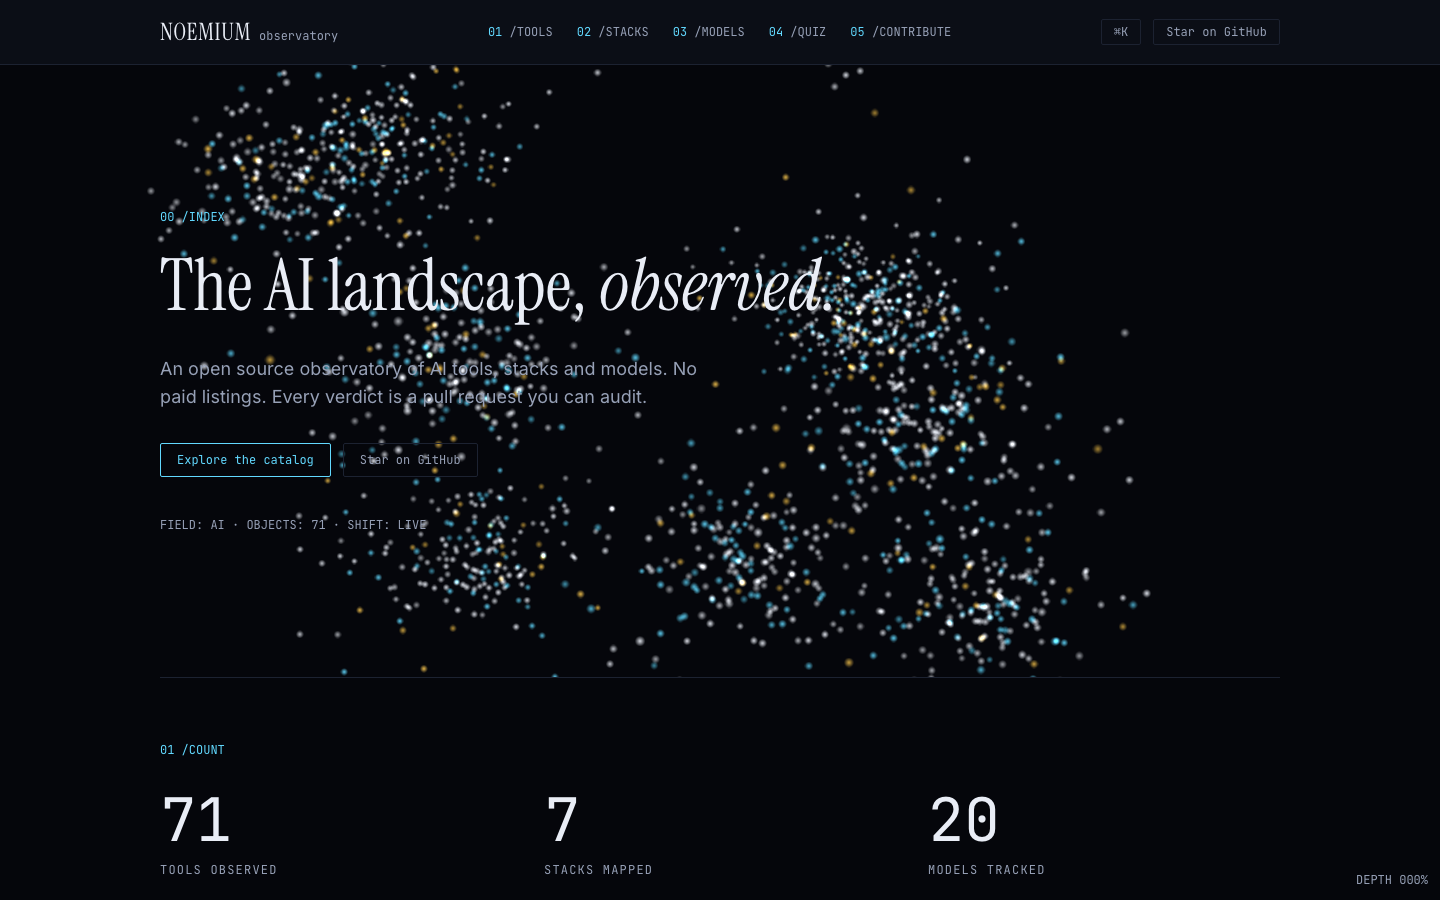
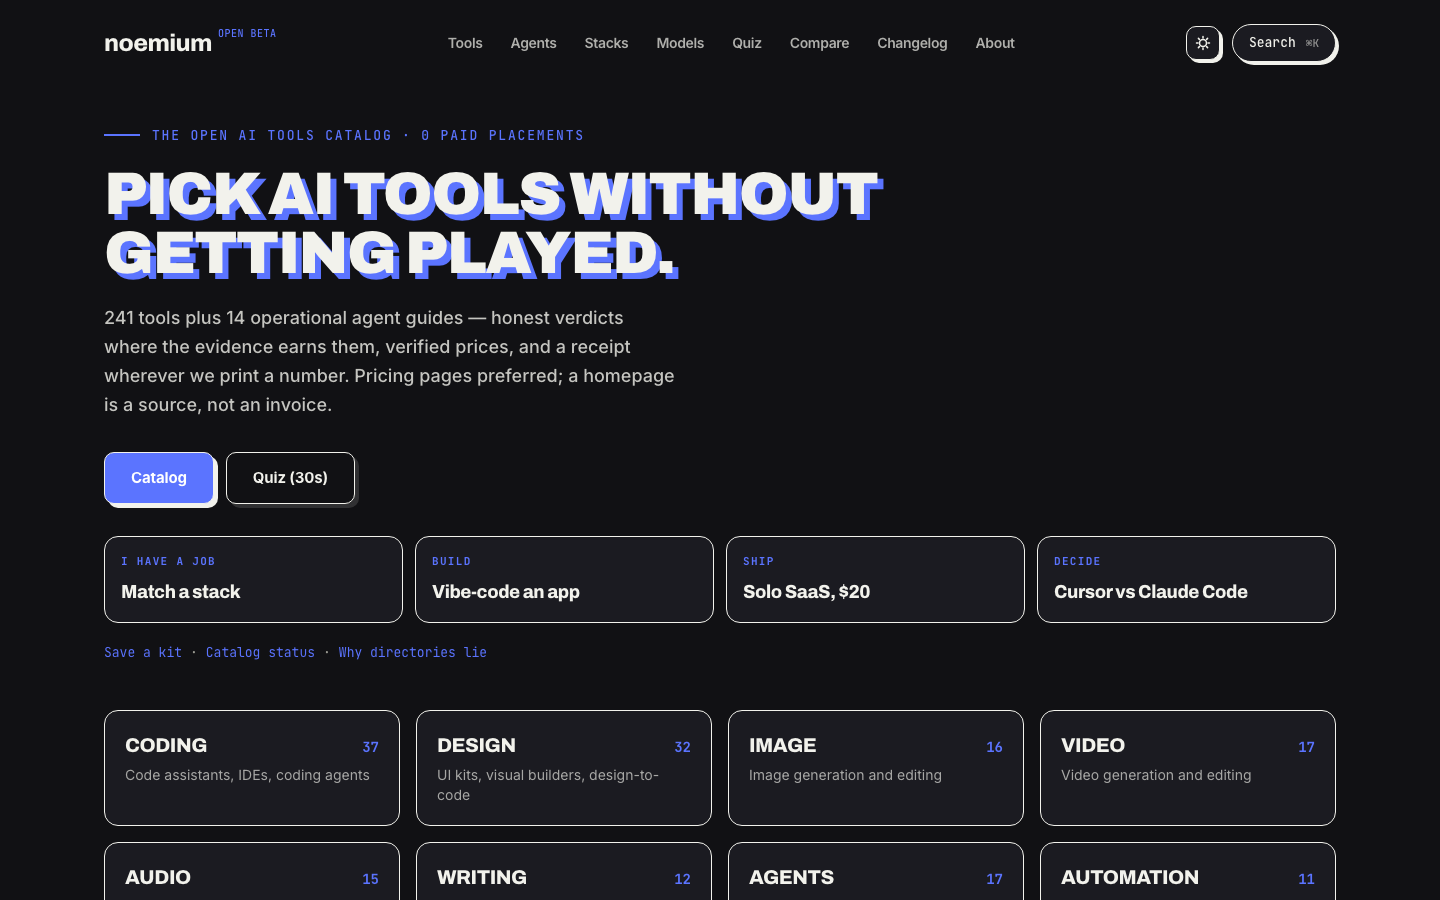
Polish repo showcase and page copy
- README: current hero screenshot, site surfaces (/status /verified
  /refusals /kit /changelog /graveyard /why /method), open-data
  endpoints, test commands, graveyard collection, evidence tiers
- CONTRIBUTING/PR template: full gate (test + test:dist), fix dead
  model example path
- Issue template: add design + automation categories
- link-check workflow: actions to v7 SHAs like the rest
- Pages: dynamic refusal-ledger line on /why (shared data module),
  descriptive titles, copy fixes (quiz, compare, contribute, about,
  pack), trailing-slash nav consistency

diff --git a/src/data/refusals.ts b/src/data/refusals.ts
@@ -1,0 +1,10 @@
+export interface Refusal {
+  date: string;
+  amount: string;
+  type: string;
+  counterparty: string;
+  answer: string;
+}
+
+/** Public ledger of declined paid-influence offers. Starts at zero. */
+export const refusals: Refusal[] = [];

diff --git a/README.md b/README.md
@@ -2,7 +2,7 @@
 
 [![CI](https://github.com/SaneSanders/noemium/actions/workflows/ci.yml/badge.svg)](https://github.com/SaneSanders/noemium/actions/workflows/ci.yml)
 
-![Noemium — the AI landscape, observed](.github/hero.png)
+![Noemium — pick AI tools without getting played](.github/hero.png)
 
 **Pick AI tools without getting played.**
 
@@ -13,7 +13,8 @@ print a number.
 Noemium is a hub for AI practitioners:
 
 - **Tools** — honest verdicts (`ship` / `situational` / `skip`) with named
-  limitations and evidence links.
+  limitations, evidence links, and a decision briefing
+  (`strengths` / `use_for` / `skip_when`) on flagship cards.
 - **Agents** — operational field guides with install paths, requirements, cost
   scenarios, security boundaries, and explicit evidence tiers. Grok Bot and
   Grok Build are treated as separate products.
@@ -22,8 +23,38 @@ Noemium is a hub for AI practitioners:
 - **Models** — context windows, per-MTok pricing, strengths and anti-use
   cases, with attributed sources.
 
-Every entry carries `last_verified`, an `observed_by` GitHub handle, and at
-least one receipt. Affiliate links, when they exist, are always declared.
+Every entry carries `last_verified` and an `observed_by` GitHub handle. Tool
+and stack entries require at least one receipt; agents declare typed evidence
+tiers (`field-tested` / `source-verified` / `radar`). Affiliate links, when
+they exist, are always declared.
+
+## The site
+
+Beyond the catalog indexes, [noemium.com](https://noemium.com) ships:
+
+- [`/status`](https://noemium.com/status/) — build-time catalog health:
+  briefing and receipt coverage, no vanity counters.
+- [`/verified`](https://noemium.com/verified/) — the field-tested shelf.
+  Empty until earned.
+- [`/refusals`](https://noemium.com/refusals/) — a public ledger of declined
+  paid placements. Zero so far, and that zero is the point.
+- [`/kit`](https://noemium.com/kit/) — save and share tool sets via URL.
+  No account, no fake totals.
+- [`/changelog`](https://noemium.com/changelog/) — a weekly diff of what
+  changed in the catalog.
+- [`/graveyard`](https://noemium.com/graveyard/) — dead tools, with
+  obituaries.
+- [`/why`](https://noemium.com/why/) and
+  [`/method`](https://noemium.com/method/) — the essay and the verification
+  method.
+- 45 static `X vs Y` comparison pages, a Pagefind search, and a five-question
+  quiz that ends in a stack.
+
+## Open data
+
+- `/api/tools.json`, `/api/stacks.json`, `/api/models.json` — full dumps.
+- `/tools/<slug>.json` — every tool as its own JSON endpoint.
+- `/llms.txt` and `/llms-full.txt` — the catalog, LLM-ready.
 
 ## Stack
 
@@ -45,6 +76,8 @@ Other commands:
 npm run build      # static build to dist/
 npm run check      # astro check (types)
 npm run validate   # validate all content entries (CI-friendly)
+npm test           # unit tests (schemas, surfaces, kit, logos)
+npm run test:dist  # dist assertions (run after build)
 ```
 
 ## Content structure
@@ -54,7 +87,8 @@ src/content/
 ├── tools/    # *.yaml — one file per tool (see cursor.yaml as template)
 ├── agents/   # *.yaml — strict field guides and verdict-free Radar entries
 ├── stacks/   # *.md   — frontmatter + recipe body (see solo-founder-saas.md)
-└── models/   # *.yaml — one file per model (see gpt-5-6-sol.yaml)
+├── models/   # *.yaml — one file per model (see gpt-5-6-sol.yaml)
+└── graveyard/ # *.yaml — dead tools, with obituaries
 ```
 
 Schemas live in `src/content-schemas.ts` and are enforced both at build

diff --git a/CONTRIBUTING.md b/CONTRIBUTING.md
@@ -11,7 +11,7 @@ about 5 minutes.
    - `src/content/tools/cursor.yaml`
    - `src/content/agents/grok-bot.yaml`
    - `src/content/stacks/solo-founder-saas.md`
-   - `src/content/models/claude-sonnet-4-5.yaml`
+   - `src/content/models/claude-sonnet-5.yaml`
 3. **Rename** it to a kebab-case slug (`my-tool.yaml`).
 4. **Fill it in** from your own experience (see the rules below).
 5. **Validate locally:**
@@ -67,5 +67,5 @@ law of the project (tokens only, no gradients, no emoji in UI). Before
 opening a PR, run:
 
 ```sh
-npm run validate && npm run check && npm run build
+npm run validate && npm run check && npm run build && npm test && npm run test:dist
 ```

diff --git a/.github/ISSUE_TEMPLATE/tool-submission.md b/.github/ISSUE_TEMPLATE/tool-submission.md
@@ -7,7 +7,7 @@ labels: content, tool
 
 **Tool name:**
 
-**Category:** coding / image / video / audio / writing / agents / data / productivity / dev-infra / models-api
+**Category:** coding / design / image / video / audio / writing / agents / automation / data / productivity / dev-infra / models-api
 
 **Your experience with it:**
 <!-- What did you actually build or run with it? -->

diff --git a/.github/PULL_REQUEST_TEMPLATE.md b/.github/PULL_REQUEST_TEMPLATE.md
@@ -10,4 +10,4 @@
 - [ ] Affiliate links are declared (`affiliate: declared` if any tracking params)
 - [ ] `last_verified` is today (YYYY-MM-DD)
 - [ ] `npm run validate` passes locally
-- [ ] For UI changes: read DESIGN.md; `npm run check && npm run build` pass
+- [ ] For UI changes: read DESIGN.md; `npm run check && npm run build && npm test && npm run test:dist` pass
